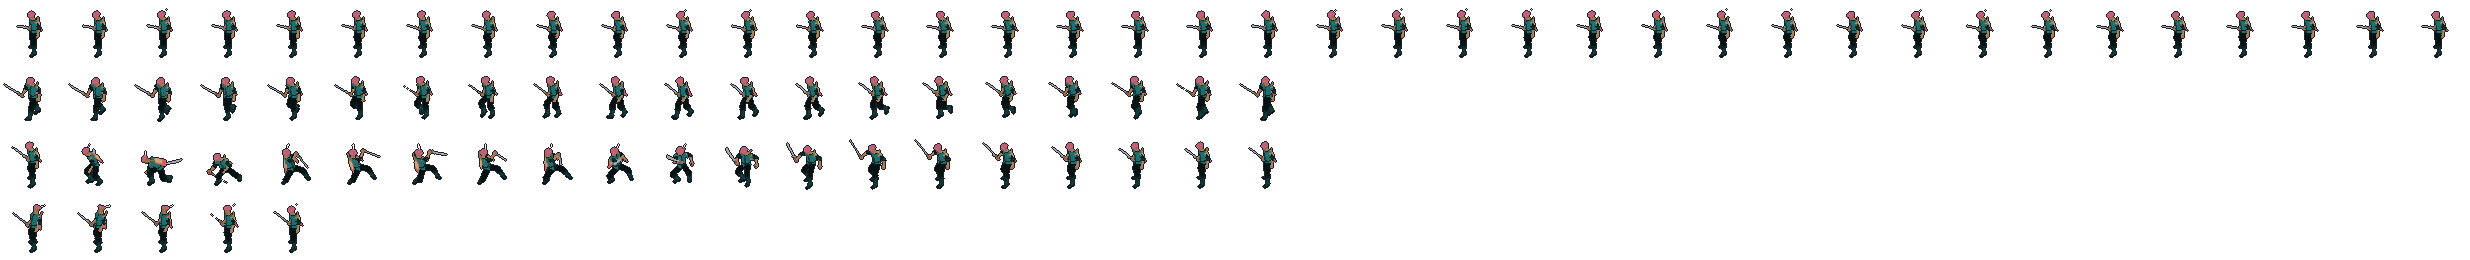
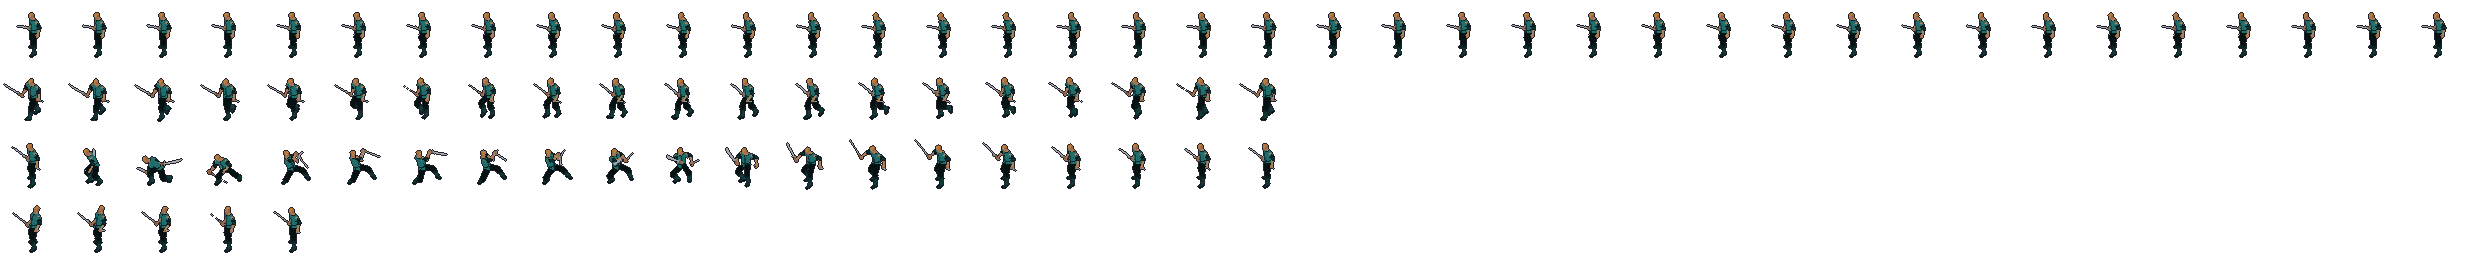
inc: 시안 — 직접 만든 장비를 빼고 기본 옷 색 + 직업별 무기 팩 무기만으로 12직업을 다시 구움

diff --git a/inc/char_lab/index.html b/inc/char_lab/index.html
@@ -29,7 +29,7 @@
   <div><canvas id="pxscene"></canvas><div class="cap">시안 — 파이터 · 클레릭 · 위저드 · 레인저 (키 40px)</div></div>
 </div>
 <h2>SRD 12직업 (3배)</h2>
-<p>옷은 무료 옷 두 벌(농부 · 레인저)의 부품을 색만 바꿔 쓰고, 투구 · 흉갑 · 망토 · 로브 · 모자 · 사슴뿔 · 털 망토 · 지팡이 · 마법 구슬 · 등불 · 책 · 화살통은 제가 만들었습니다. 칼 · 도끼 · 망치 · 단검 · 활 · 방패는 무기 팩(CC0)입니다. 활 쏘기는 동작 라이브러리에 없어서 두 팔을 IK로 움직여 만들었습니다.</p>
+<p>옷은 무료 옷 두 벌(농부 · 레인저, 남녀)의 색만 바꿨고, 직업마다 무기 팩(CC0)의 무기만 다르게 쥐었습니다 — 파이터 칼+둥근 방패 · 팔라딘 금빛 칼+금빛 방패 · 바바리안 양날도끼 · 몽크 맨손 · 로그 단검 둘 · 레인저 활 · 드루이드 낫 · 클레릭 망치+방패 · 위저드 창(지팡이 대신) · 소서러 단검 · 워락 대검 · 바드 칼+단검. 활 쏘기는 동작 라이브러리에 없어서 두 팔을 IK로 움직여 만들었습니다.</p>
 <canvas id="clsrow"></canvas>
 <h2>키 32 · 40 · 48px × 동작 — 레인저 (4배)</h2>
 <canvas id="pxrow"></canvas>
@@ -559,7 +559,7 @@ function pxRow(t) {
 document.querySelectorAll('[data-o]').forEach(b => b.onclick = () => { outfit = b.dataset.o; document.querySelectorAll('[data-o]').forEach(x => x.classList.toggle('on', x === b)); });
 // ── SRD 12직업 (cls/cls_*.png · cls_meta.json)
 const CLS12 = [['fighter', '파이터'], ['paladin', '팔라딘'], ['barbarian', '바바리안'], ['monk', '몽크'], ['rogue', '로그'], ['ranger', '레인저'], ['druid', '드루이드'], ['cleric', '클레릭'], ['wizard', '위저드'], ['sorcerer', '소서러'], ['warlock', '워락'], ['bard', '바드']];
-let CM = null; const CIM = {}; fetch('cls/cls_meta.json').then(r => r.json()).then(d => { CM = d; for (const k in d) { const im = new Image(); im.src = `cls/cls_${k}.png?v=2`; CIM[k] = im; } }).catch(() => {});
+let CM = null; const CIM = {}; fetch('cls/cls_meta.json').then(r => r.json()).then(d => { CM = d; for (const k in d) { const im = new Image(); im.src = `cls/cls_${k}.png?v=3`; CIM[k] = im; } }).catch(() => {});
 const clsOk = k => CM && CM[k] && CIM[k] && CIM[k].complete && CIM[k].naturalWidth;
 function clsDraw(c, k, key, t, x, y, K, flip) {
   const M = CM[k], r = M.rows.indexOf(key), n = M.n[key], f = Math.floor(t * M.fps) % n;
